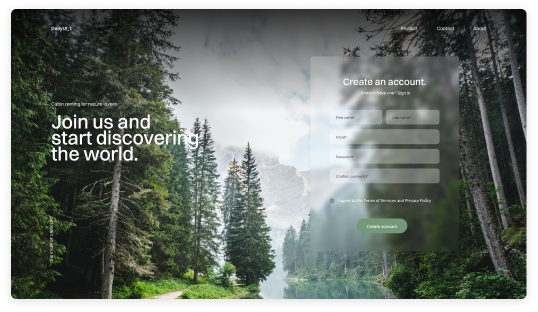
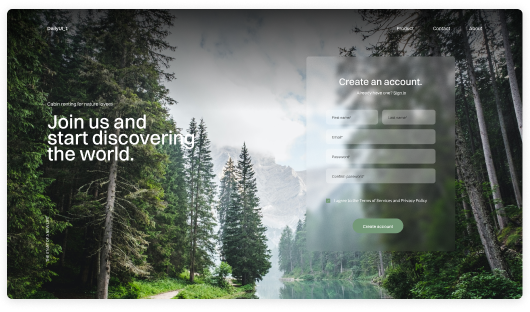
Correct image sizes (#8)

diff --git a/styles/globals.css b/styles/globals.css
@@ -2,12 +2,10 @@ html,
 body {
   padding: 0;
   margin: 0;
-  /* font-family: -apple-system, BlinkMacSystemFont, Segoe UI, Roboto, Oxygen,
-    Ubuntu, Cantarell, Fira Sans, Droid Sans, Helvetica Neue, sans-serif; */
-    font-family: 'Clash Display', sans-serif;                                            
-    background-color: #262626;
-    color: #fff;
-    font-display: optional;
+  font-family: 'Clash Display', sans-serif;
+  background-color: #262626;
+  color: #fff;
+  font-display: optional;
 }
 
 a {

diff --git a/components/DailyUI.tsx b/components/DailyUI.tsx
@@ -66,8 +66,8 @@ export const DailyUI = ({
         <Image
           src={`/images/${number}.png`}
           alt={`Daily UI Challenge ${number} ${name}`}
-          width={516}
-          height={290}
+          width={530}
+          height={312}
           layout='responsive'
         />
         <DailyBottomRow>
